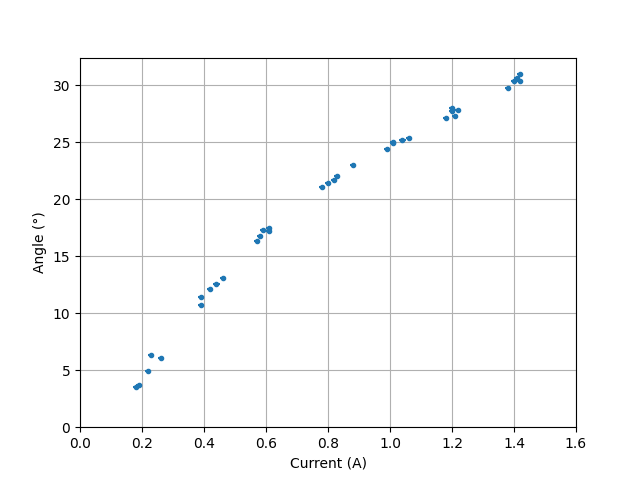
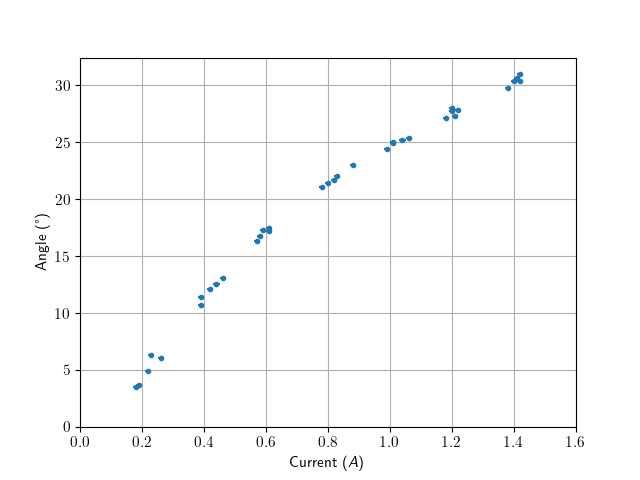
data processing corrected

diff --git a/python/plots.py b/python/plots.py
@@ -5,7 +5,7 @@ import numpy as np
 import csv
 
 plt.rcParams['text.usetex'] = True
-#plt.rcParams.update({'font.size': 12})
+plt.rcParams.update({'font.size': 11})
 
 path = Path(__file__).parent.parent.resolve() / 'data' / 'image-data2.csv'
 
@@ -42,12 +42,13 @@ ax1.set_xlim(left=0, right=1.6)
 ax1.set_ylim(bottom=0)
 ax1.grid()
 
-get_dx = lambda x, dx : (np.arctan(x + dx) - np.arctan(x - dx)) / 2
+dtan = lambda x : np.tan(np.radians(x))
+get_dy = lambda y, dy, y2 : (dtan(y+dy) - dtan(y-dy))/2 / dtan(y) * y2
 
 X2 = X#np.degrees(np.arctan(X))
 DX2 = DX#[get_dx(x, dx) for x, dx in zip(X, DX)]
-Y2 = mass*9.81*np.tan(np.radians(Y))
-DY2 = DY
+Y2 = mass*9.81*dtan(Y)
+DY2 = get_dy(Y, DY, Y2)
 
 f2 = plt.figure()
 ax2 = f2.add_subplot(111)
@@ -58,9 +59,9 @@ x = np.linspace(np.min(X2)*(0.8), np.max(X2)*1.1, 100)
 
 ax2.plot(x, (res2.slope * x + res2.intercept), 'k')
 
-ax2.set_xlabel(r'Current (\textit{A})')
-ax2.set_ylabel(u'Angle (\u00b0)')
-ax2.set_xlim(left=0)
+ax2.set_xlabel(r'Current (A)')
+ax2.set_ylabel(r'Force (mN)')
+ax2.set_xlim(left=0, right=1.6)
 ax2.set_ylim(bottom=0)
 ax2.grid()
 
@@ -68,7 +69,7 @@ eqstr1 = r'$y=%.2fx + %.2f$' % (res2.slope, res2.intercept)
 eqstr2 = r'$y=%.2fx %.2f$' % (res2.slope, res2.intercept)
 
 textstr = '\n'.join((
-    eqstr1 if res2.intercept > 0 else eqstr2,
+    eqstr1 if res2.intercept >= 0 else eqstr2,
     r'$\rho=%.4f$' % (res2.rvalue, )))
 
 props = dict(boxstyle='round', facecolor='wheat', alpha=0.5)
@@ -76,7 +77,4 @@ props = dict(boxstyle='round', facecolor='wheat', alpha=0.5)
 ax2.text(0.05, 0.95, textstr, transform=ax2.transAxes, fontsize=12,
         verticalalignment='top', bbox=props)
 
-print(res2.slope)
-print(res2.intercept)
-print(res2.rvalue)
 plt.show()
